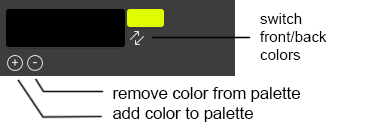
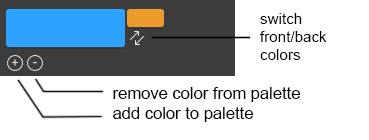
Deployed 4ec5025 with MkDocs version: 1.6.1

Changed region(s): [[0.0, 0.0571, 0.4472, 0.3429]]

diff --git a/gp_designer_desk/index.html b/gp_designer_desk/index.html
@@ -535,6 +535,7 @@
 
 <h1 id="gp-designer-desk-documentation">GP Designer Desk documentation</h1>
 <h2 id="panels">Panels</h2>
+<p><img alt="Tint Panel" src="../pics/panels.png" /></p>
 <h2 id="tint-panel">Tint panel</h2>
 <h3 id="brush-color">Brush Color</h3>
 <p><img alt="Tint Panel" src="../pics/tint_panel.png" /></p>
@@ -564,7 +565,8 @@
 <h4 id="new-palette-popup">"New Palette" Popup</h4>
 <p>You can create new empty palette, create palette based on current visible grease pencil image or import any palette from other .blend file.</p>
 <p><img alt="Palette" src="../pics/new_palette_option.png" /></p>
-<p><img alt="Shape Panel" src="../pics/palette_from_frame.png" /></p>
+<p>Example of how <strong>Create New Palette</strong> from <strong>Current Frame</strong> works:
+<img alt="Shape Panel" src="../pics/palette_from_frame.png" /></p>
 <h4 id="show-swatches-button">Show Swatches Button</h4>
 <p><img alt="Palette|46" src="../pics/palette_icon.png" />
 With this button you can switch on/off palette swatches in 3d View</p>